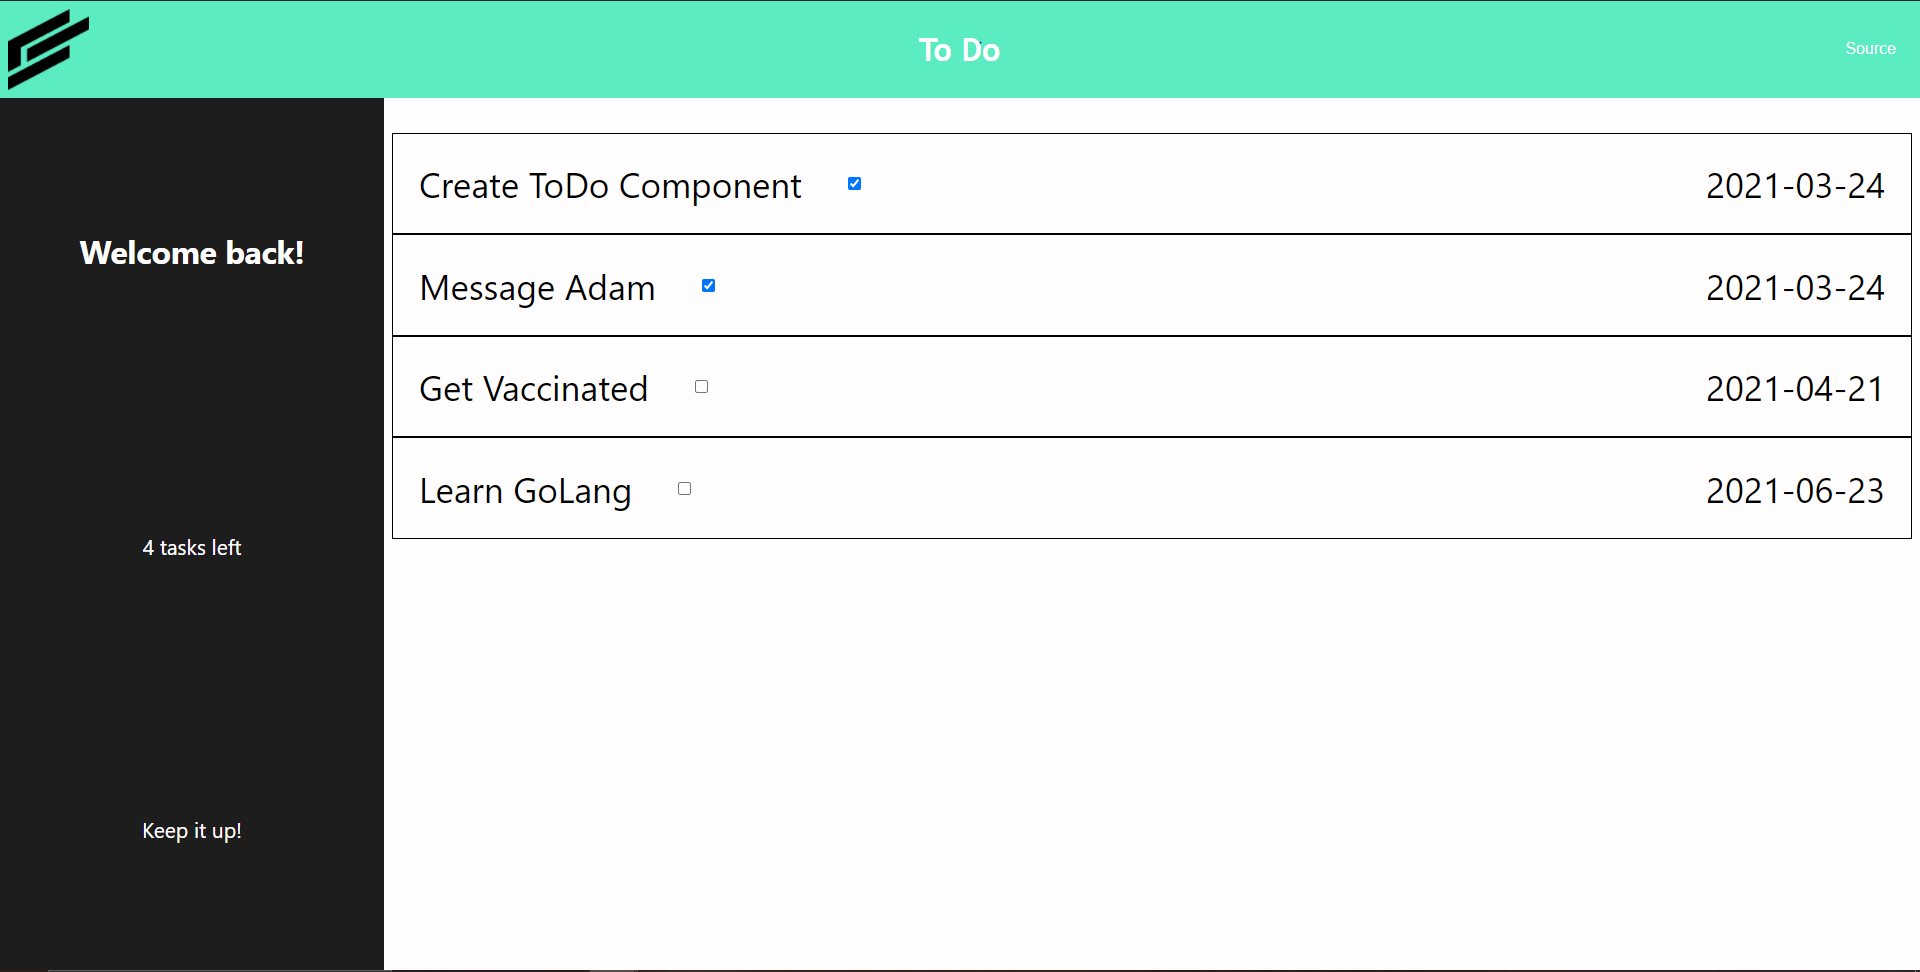
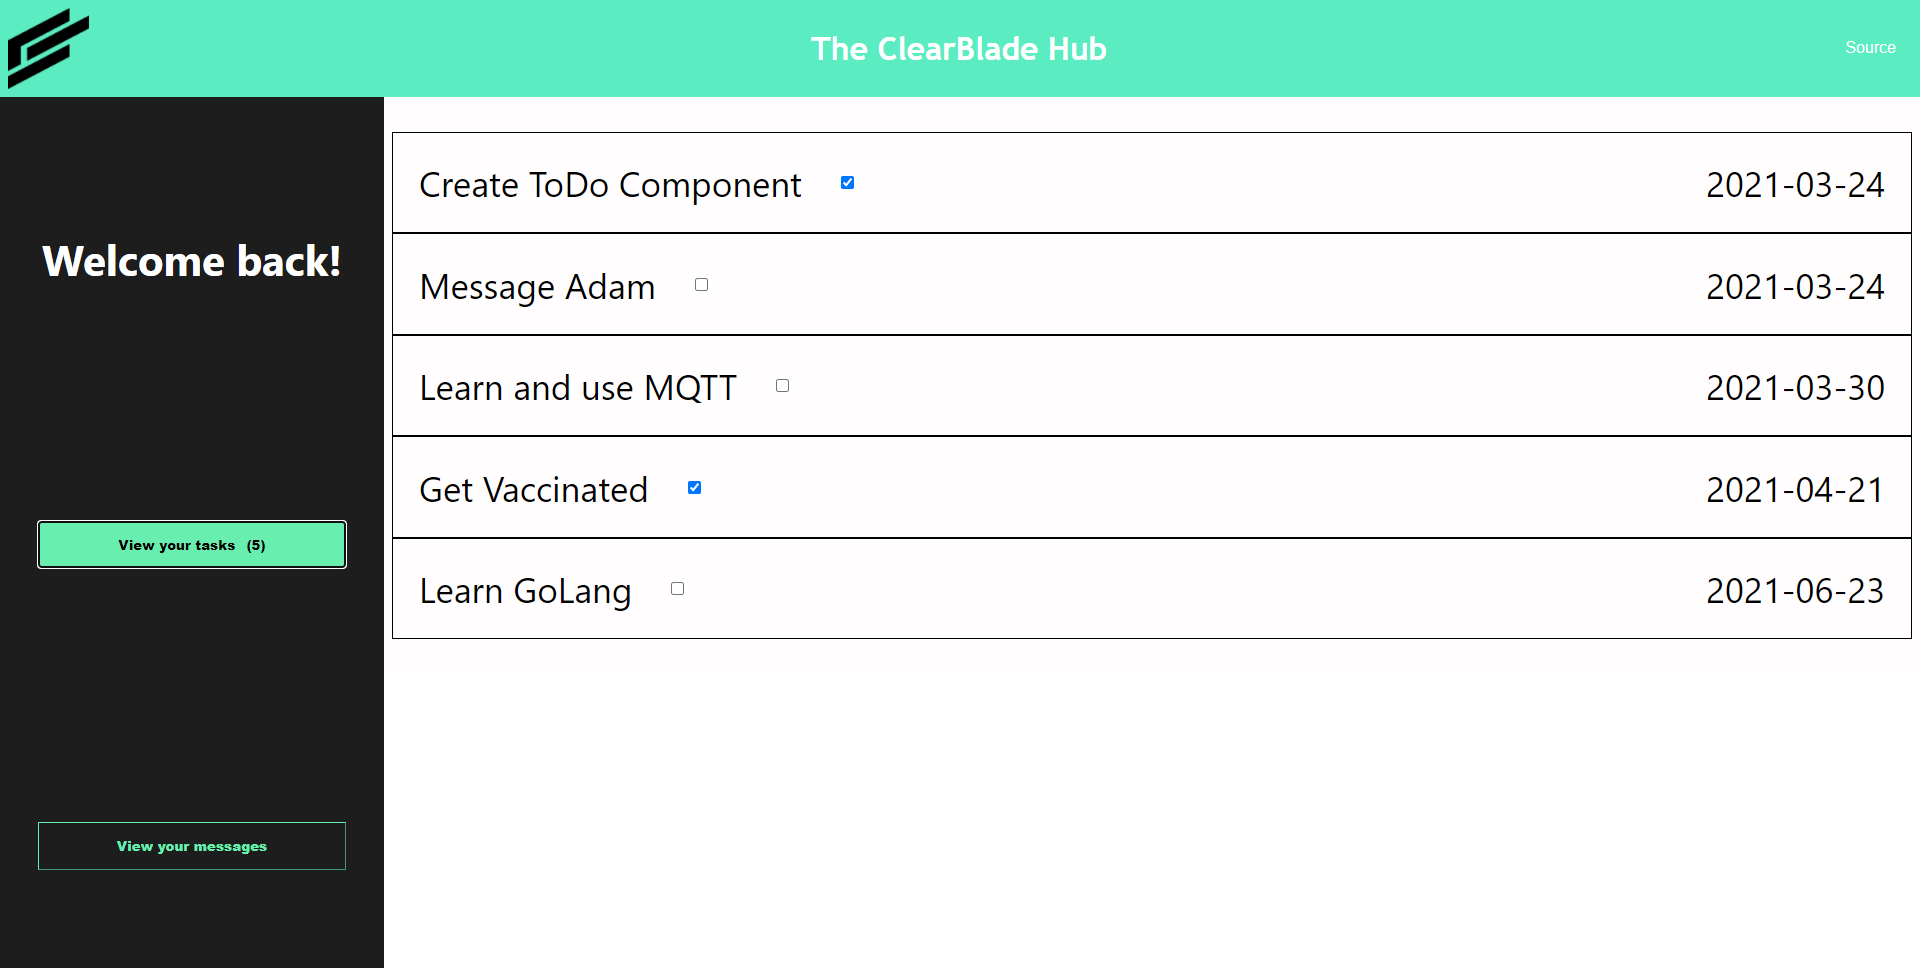
finished core messaging functionality

diff --git a/src/App.tsx b/src/App.tsx
@@ -5,6 +5,7 @@ import { Task } from './components/ToDo';
 import './App.css';
 import { useEffect, useState } from 'react'
 import { SummaryProps } from './components/SummaryPanel';
+import { Message } from './components/Messaging'
 
 /**
  * This functional component contains the entire application's components (header, body) and the body's components (ToDo container and ToDo's).
@@ -14,21 +15,29 @@ function App(): JSX.Element {
 
   //this state represents the list of tasks in the collection
   const [tasksState, setTasks] = useState<Task[]>([]);
+
+  //this state represents the current messsages in the chat
+  const [messages, setMessages] = useState<Message[]>([{sender:"Clearblade Platform", body: "Welcome!"}])
+
   //this object contains the total of tasks in Collection (and as bonus the number of tasks that are done)
-  const [taskData, setTasksData] = useState({ tasks_done: 0, tasks_total: 0, messages: 0});
+  const [taskData, setTasksData] = useState({ tasks_done: 0, tasks_total: 0, messages: messages.length});
+
   //this state represents what component should be displayed
   const [display, setDisplay] = useState(Display.TaskBoard);
+
+
 
   //initiate collection connection and fetch data in component initialization 
   useEffect(() => {
     const cb = initializeClearBlade();
     fetchTasksFromCollection(cb, setTasks, setTasksData);
+    //subscribeToCollectionUpdates(cb);
   }, [])
 
   return (
     <div className="App">
       <Header></Header>
-      <Body taskData={taskData} tasks={tasksState} display={display} setDisplay={setDisplay}></Body>
+      <Body taskData={taskData} tasks={tasksState} display={display} setDisplay={setDisplay} messages = {messages}></Body>
     </div>
   );
 }
@@ -41,7 +50,6 @@ function initCallback(err: boolean, cb:IClearBlade): void {
   if (err) {
     alert("Error connecting to collection :(");
   }
-  subscribeToCollectionUpdates(cb);
 }
 
 /**
@@ -78,12 +86,11 @@ function fetchTasksFromCollection(cb: IClearBlade, setTasks: React.Dispatch<Reac
   const query = cb.Query({ collectionName: 'Clearblade_Task_TODO' });
   query.ascending("due_date");
 
-  //fetches the collection and pushes each element into the task state
+  //fetches the collection and includes every element into the task state
   collection.fetch(query, (err, dataArray) => {
     if (err) {
       alert("An error occurred in fetching data :(");
     } else {
-
       let taskArray:Task[] = []
       let numberOfTasksDone = 0;
       dataArray.forEach((collectionRow: any) => {
@@ -114,6 +121,10 @@ function fetchTasksFromCollection(cb: IClearBlade, setTasks: React.Dispatch<Reac
   })
 }
 
+/**
+ * Subscribes to topic 'collection/to_do'
+ * @param cb clearblade object
+ */
 function subscribeToCollectionUpdates(cb: IClearBlade) {
   const messaging = cb.Messaging({}, err => {
     if(err) {

diff --git a/src/components/Messaging.tsx b/src/components/Messaging.tsx
@@ -1,11 +1,34 @@
 import '../stylesheets/Body.css'
 import { Display } from './Body'
+import { useState } from 'react'
 
-function submitMessage(e: React.FormEvent<HTMLFormElement>):void {
-    e.preventDefault();
+//this type represents a message in a message board
+export type Message = {
+    sender: string
+    body: string
 }
 
-export default function Messaging({ display }: { display: Display }): JSX.Element {
+/**
+ * Sends the message to the platform for the form 'message-input'
+ * @param e form event
+ */
+function submitMessage(e: React.FormEvent<HTMLFormElement>, input: string, setInput: React.Dispatch<React.SetStateAction<string>>):void {
+    e.preventDefault();
+    console.log(input);
+    setInput("");
+}
+
+function renderMessages(messages: Message[]):JSX.Element[] {
+    let renderedMessages = messages.map((message: Message, index:number):JSX.Element => {
+        return <div key={index}>{message.sender}: {message.body} </div>
+    })
+    return renderedMessages;
+}
+
+export default function Messaging({ display, messages}: { display: Display, messages : Message[]}): JSX.Element {
+    const [input, setInput] = useState("")
+
+
     return (
         <div style={{
             display: display === Display.Messaging ? "inherit" : "none",
@@ -13,11 +36,12 @@ export default function Messaging({ display }: { display: Display }): JSX.Elemen
         }}
             className="messaging">
             <div className="message-display">
-
+                {renderMessages(messages)}
             </div>
-            <form className="message-input" onSubmit = {(e) => {submitMessage(e)}}>
-                <input type="text" className = "input-field"/>
+            <form className="message-input" onSubmit = {(e) => {submitMessage(e, input, setInput)}}>
+                <input type="text" className = "input-field" value = {input} onChange={(e) => setInput(e.target.value)}/>
                 <input type="submit" value="Submit" className ="submit-button"/>
+                <input type="submit" className="small-submit" value = {""}/>
             </form>
         </div>
     )

diff --git a/src/stylesheets/Body.css b/src/stylesheets/Body.css
@@ -15,7 +15,6 @@
     align-items: center;
     background-color:  rgb(29, 29, 29);
     box-sizing: border-box;
-    padding:1em;
 }
 
 .input-field {
@@ -23,13 +22,6 @@
     padding:1em;
 }
 
-.submit-button {
-    width:10%;
-    padding: 1em;
-    background-color:rgb(104, 238, 175);
-    font-weight: 900;
-    cursor: pointer;
-}
 
 .to-do-body {
     display: flex;
@@ -93,10 +85,6 @@
     margin-right: 1em;
 }
 
-input {
-    width: 2em;
-}
-
 .message-display, .message-input {
     border-width: 1px;
     width: 100%;
@@ -148,6 +136,22 @@ input {
     .to-do-taskboard, .messaging {
         padding: .2em;
     }
+
+    .message-input {
+        padding:0em;
+    }
+
+    .small-submit {
+        width:10%;
+        background-color:rgb(104, 238, 175);
+        cursor: pointer;
+        display:block;
+        padding: 1em;
+    }
+
+    .submit-button {
+        display:none;
+    }
 }
 
 /* Extra small devices (phones, 400px and up) */
@@ -183,6 +187,22 @@ input {
     .to-do-summary>div {
         display: flex;
         flex-direction: row;
+    }
+
+    .message-input {
+        padding:.2em;
+    }
+
+    .small-submit {
+        width:10%;
+        background-color:rgb(104, 238, 175);
+        cursor: pointer;
+        display:block;
+        padding: 1em;
+    }
+
+    .submit-button {
+        display:none;
     }
 }
 
@@ -250,5 +270,25 @@ input {
 
     .to-do-summary button{
         width:80%;
+    }
+
+    .submit-button {
+        width:10%;
+        padding: 1em;
+        background-color:rgb(104, 238, 175);
+        font-weight: 900;
+        cursor: pointer;
+    }
+
+    .message-input {
+        padding:.5em;
+    }
+
+    .submit-button {
+        display:block;
+    }
+
+    .small-submit {
+        display:none;
     }
 }

diff --git a/src/components/ToDoContainer.tsx b/src/components/ToDoContainer.tsx
@@ -4,20 +4,21 @@ import { Display } from './Body';
 import Messaging from './Messaging';
 import TaskBoard from './TaskBoard';
 import SummaryPanel, { SummaryProps } from './SummaryPanel';
+import { Message } from './Messaging'
 
 /**
  * This functional component represents the main component of the app holding a summary panel, the tasks to be done, and messaging.
  * @param param0 an object that has SummaryProps and a list of tasks, a flag to determine what the body should show, a function that sets the state
  * @returns a component with a summary component and displays a list of tasks or a messaging board
  */
-function ToDoContainer({ summary, tasks, display, setDisplay }: { summary: SummaryProps, tasks: Task[], display: Display,
-     setDisplay: React.Dispatch<React.SetStateAction<Display>> }): JSX.Element {
+function ToDoContainer({ summary, tasks, display, setDisplay, messages}: { summary: SummaryProps, tasks: Task[], display: Display,
+     setDisplay: React.Dispatch<React.SetStateAction<Display>>, messages: Message[]}): JSX.Element {
     return (
         <div className="to-do-container">
            <SummaryPanel summary= {summary} setDisplay = {setDisplay}></SummaryPanel>
             <div className="to-do-body">
                 <TaskBoard display={display} tasks={tasks}/>
-                <Messaging display={display} />
+                <Messaging display={display} messages = {messages} />
             </div>
         </div>
     );

diff --git a/src/components/Body.tsx b/src/components/Body.tsx
@@ -1,10 +1,12 @@
 import '../stylesheets/Body.css';
 import ToDoContainer from './ToDoContainer';
 import { SummaryProps } from './SummaryPanel';
-import {Task} from './ToDo'
-import 'clearblade-js-client/lib/mqttws31'; 
+import { Task } from './ToDo'
+import 'clearblade-js-client/lib/mqttws31';
 import 'clearblade-js-client';
+import { Message } from './Messaging'
 
+// The 2 states the body can show: the taskboard, or the messaging board
 export enum Display {
   TaskBoard,
   Messaging
@@ -15,9 +17,12 @@ export enum Display {
  * @param param0 object containing SummaryProps and Task[]
  * @returns a component representing the body
  */
-function Body({taskData, tasks, display, setDisplay}: {taskData: SummaryProps, tasks: Task[], display: Display, setDisplay: any}): JSX.Element {
+function Body({ taskData, tasks, display, setDisplay, messages }: {
+  taskData: SummaryProps, tasks: Task[], display: Display,
+  setDisplay: any, messages: Message[]
+}): JSX.Element {
   return (
-    <ToDoContainer summary = {taskData} tasks={tasks} display = {display} setDisplay = {setDisplay}/>
+    <ToDoContainer summary={taskData} tasks={tasks} display={display} setDisplay={setDisplay} messages={messages} />
   );
 }
 
